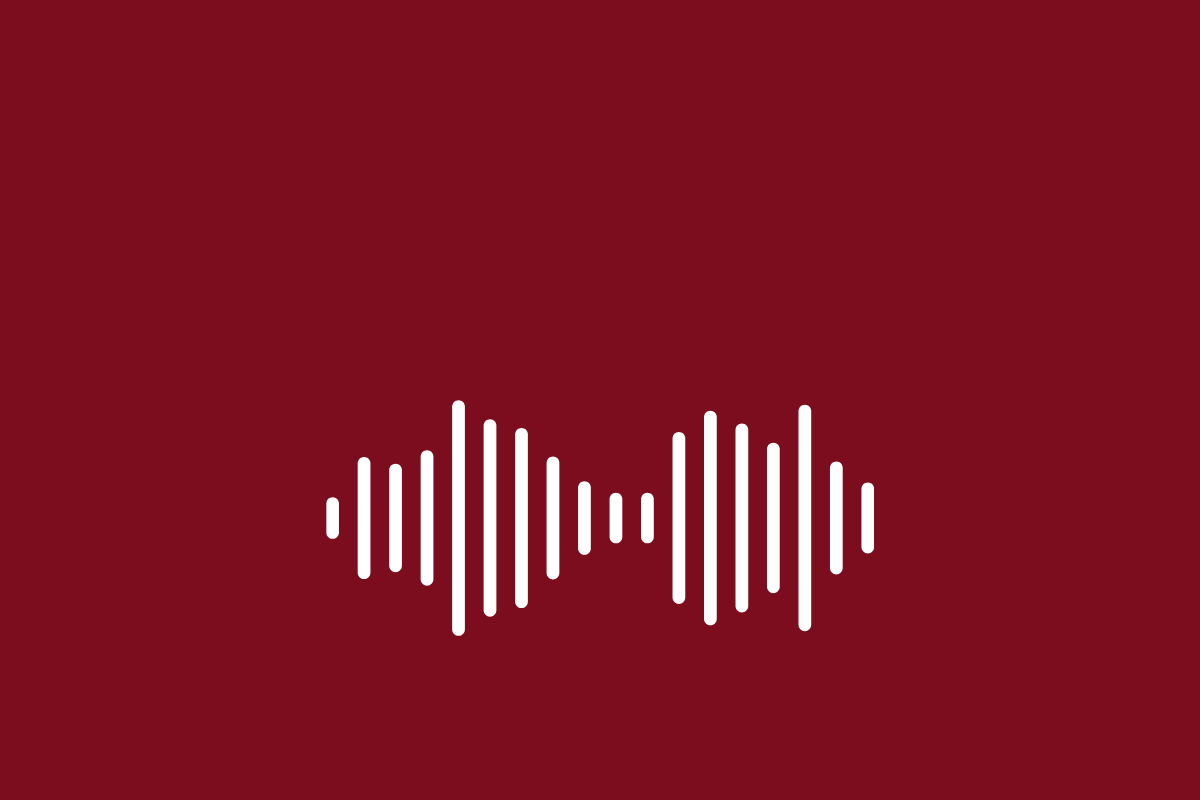
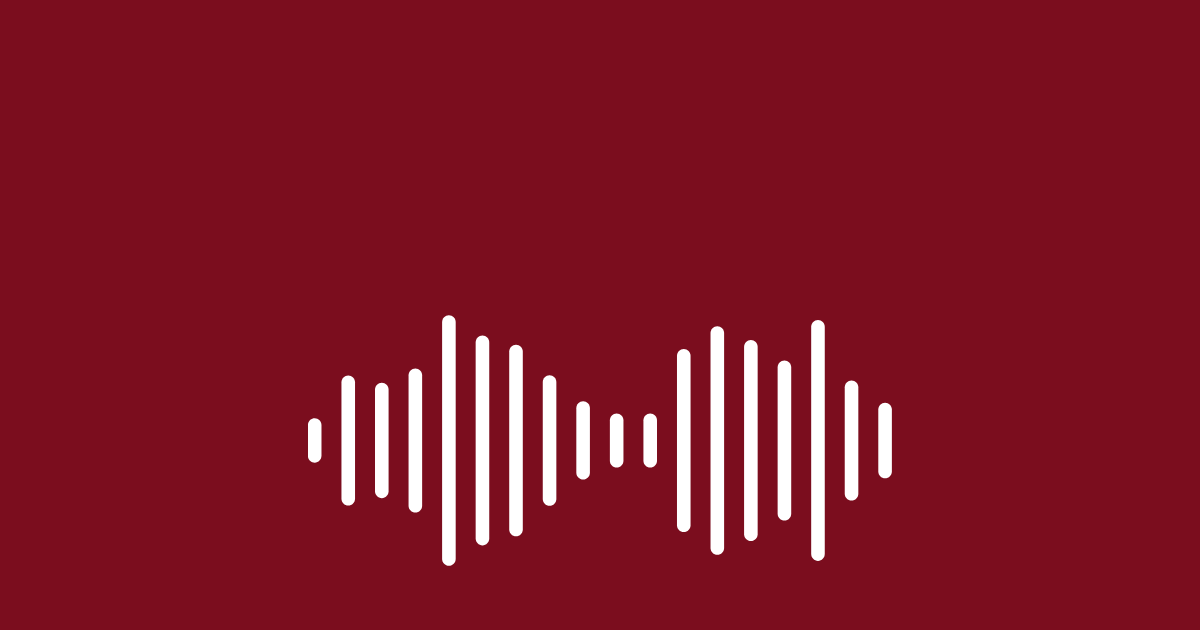
base image resize

Changed region(s): [[0.2467, 0.4825, 0.7708, 0.9048]]

diff --git a/app/api/og/route.tsx b/app/api/og/route.tsx
@@ -26,19 +26,22 @@ export async function GET(request: NextRequest) {
             display: 'flex',
             flexDirection: 'column',
             alignItems: 'center',
-            justifyContent: 'flex-start',
+            justifyContent: 'center',
             backgroundImage: `url(${baseImageUrl})`,
             backgroundColor: '#8B1538', // burgundy fallback
             backgroundSize: 'cover',
             backgroundPosition: 'center',
+            position: 'relative',
           }}
         >
           <div
             style={{
-              marginTop: '15%',
-              display: 'flex',
+              position: 'absolute',
+              top: '50%',
+              left: '50%',
+              transform: 'translate(-50%, -50%)',
+              width: '100%',
               padding: '40px',
-              maxWidth: '850px',
               textAlign: 'center',
             }}
           >
@@ -49,6 +52,8 @@ export async function GET(request: NextRequest) {
                 color: 'white',
                 lineHeight: 1.2,
                 textShadow: '2px 2px 4px rgba(0, 0, 0, 0.3)',
+                margin: 0,
+                padding: 0,
               }}
             >
               {title}
